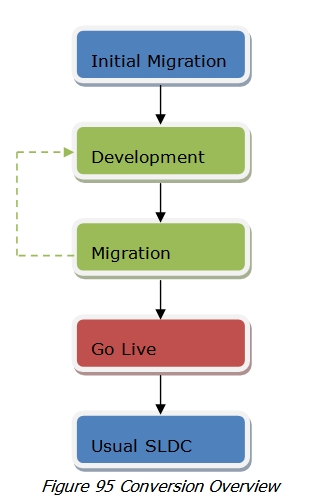
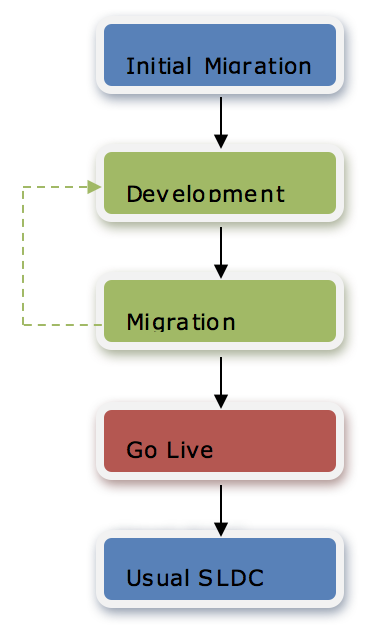
Updating chapters 17, 18, 19, 21
Converting code images to xml code where applicable, formatting cleanup

Changed region(s): [[0.0309, 0.0298, 0.9259, 1.0]]

diff --git a/chapters/ant-utilities.md b/chapters/ant-utilities.md
@@ -28,22 +28,22 @@
     * [Javadoc](#javadoc)
 
 Specific to the Java implementation of Skyve, Skyve projects include a
-build.xml file which contains a number of utilities to assist
-developers. To access the utilities, drag the build.xml file into the
+`build.xml` file which contains a number of utilities to assist
+developers. To access the utilities, drag the `build.xml` file into the
 ant view in Eclipse.
 
-![](media/image159.png)
+![Figure 88](media/image159.png "Figure 88 - Accessing the ant utilities")
 
-_Figure 88 Accessing the ant utilities_
+_Figure 88 - Accessing the ant utilities_
 
 The default target is generateDomain – which performs model validation
 and generates the domain classes.
 
-![](media/image160.png)
+![Figure 89](media/image160.png "Figure 89 - Ant tasks")
 
-_Figure 89 Ant tasks_
+_Figure 89 - Ant tasks_
 
-Developers can customise the build.xml, adding their own targets as
+Developers can customise the `build.xml`, adding their own targets as
 required, or customising those provided.
 
 ### Generate Domain
@@ -61,16 +61,16 @@ the default view as Skyve would generate for a document on-the-fly.
 From the ant view, edit the target and nominate the customer, module and
 document arguments.
 
-![](media/image161.png)
+![Figure 90](media/image161.png "Figure 90 - Setting the parameters to create a default edit view")
 
-_Figure 90 Setting the parameters to create a default edit view_
+_Figure 90 - Setting the parameters to create a default edit view_
 
 When you run the target, a file generatedEdit.xml will be created at the
 in the file system at the top level of the project.
 
-![](media/image162.png)
+![Figure 91](media/image162.png "Figure 91 - Locating the generated edit view")
 
-_Figure 91 Locating the generated edit view_
+_Figure 91 - Locating the generated edit view_
 
 ### Generating a Deployable Archive - copyProdEAR
 
@@ -78,9 +78,9 @@ The copyProdEAR target copies all files required for deployment, without
 the associated git or subversion files into a deployment ear folder in
 the project prod folder.
 
-![](media/image163.png)
+![Figure 92](media/image163.png "Figure 92 - Creating a deployable archive")
 
-_Figure 92 Creating a deployable archive_
+_Figure 92 - Creating a deployable archive_
 
 ### Javadoc
 
@@ -88,9 +88,7 @@ Skyve provides a javadoc ant target which generates a documentation set
 incorporating:
 
 -   doc metadata attributes as specified in the Skyve metadata,
-
 -   generic javadoc, and
-
 -   logical model graph, generated using graphviz “dot” application.
 
 ![](media/image164.png)
@@ -103,10 +101,9 @@ Custom javadoc can also be created using the usual doclet interface.
 The javadoc utility includes a combination of the application metadata
 formatted and combined with the embedded documentation.
 
-![](media/image165.png)
+![Figure 93](media/image165.png "Figure 93 - Example of formatted application specification combining metadata and embedded documentation")
 
-_Figure 93 Example of formatted application specification combining
-metadata and embedded documentation_
+_Figure 93 - Example of formatted application specification combining metadata and embedded documentation_
 
 Skyve includes documentation attributes at every level of application
 metadata.
@@ -119,15 +116,10 @@ the metadata), according to the concepts inherent in the platform.
 The utility creates a full documentation set including:
 
 -   Titles,
-
 -   Overviews,
-
 -   Indexes and Table of Contents for each section,
-
 -   Automatic numbered references for each section, table and figure,
-
 -   Internal links, and
-
 -   External links.
 
 Because the utility generates documentation for every part of the
@@ -135,10 +127,9 @@ application specification, it encourages developers and technical
 writers to be thorough and cover all aspects of the application they are
 documenting.
 
-![](media/image166.png)
+![Figure 94](media/image166.png "Figure 94 - Customise the javadoc task to specify the package and destination directory")
 
-_Figure 94 Customise the javadoc task to specify the package and
-destination directory_
+_Figure 94 - Customise the javadoc task to specify the package and destination directory_
 
 **[⬆ back to top](#contents)**
 

diff --git a/chapters/skyve-persistence-mechanisms.md b/chapters/skyve-persistence-mechanisms.md
@@ -40,18 +40,11 @@ best-practice Web design features on every logical table within the
 application persistence model including:
 
 -   Generic naming conventions for generic mechanisms,
-
 -   UUID enterprise-level guaranteed key uniqueness,
-
 -   Optimistic Lock concurrency controls,
-
--   Document scoping - declarative row-level security & source
-    identification,
-
+-   Document scoping - declarative row-level security & source identification,
 -   Multi-tenancy,
-
 -   Enterprise-wide consistent reference representation, and
-
 -   Collaborative record flagging.
 
 ### Generic Naming Conventions
@@ -66,7 +59,7 @@ prefixed “biz”.
 Skyve mandates the existence of the following named columns on all
 primary data rows in a Skyve managed database:
 
-Column Name | Purpose | Comments 
+Column Name | Purpose | Comments
 ------------|---------|----------
 bizId       | Enterprise wide unique identifier  | The use of UUID guarantees consistency and means no performance costs for assigning IDs, also means that IDs can be generated in external source applications without the need for re-keying when importing into a Skyve application store.
 bizVersion  | Optimistic lock concurrency control | Skyve compares the persisted version number at the time the bean is loaded with the version number when attempting to save. If the numbers are different, the bean has been changed by another conversation.
@@ -97,8 +90,8 @@ the semantic nature of each relationship.
 
 #### Ordering and bizOrdinal
 
-Column Name |  Purpose  |  Comments 
-------------| ----------|-----------
+Column Name | Purpose   | Comments
+----------- | --------- | -----------
 bizOrdinal  | Generic collection ordinal position | bizOrdinal is used for implicit ordering where collections are declared “ordered”.
 
 Where collections are declared to be ordered, Skyve maintains the
@@ -207,9 +200,9 @@ text-based flag for every entity/record within the application.
 bizFlagComment will be represented in the list by a flag icon with the
 hover gesture displaying the persisted comment.
 
-![](media/image158.png)
+![Figure 87](media/image158.png "Figure 87 - Example of the result of hover action over the flag icon")
 
-_Figure 87 Example of the result of hover action over the flag icon_
+_Figure 87 - Example of the result of hover action over the flag icon_
 
  ### Document scoping row-level security and source identification
 

diff --git a/chapters/content-repository-tools.md b/chapters/content-repository-tools.md
@@ -26,8 +26,7 @@
 
 ### Backing up the Repository
 
-A backup batch file is located in &lt; Project Home Directory
-&gt;/prod/backup/
+A backup batch file is located in `<Project Home Directory>/prod/backup/`.
 
 ### Reindexing the Repository
 
@@ -52,14 +51,12 @@ content files. Because the tree contains the path to each match, Skyve
 can determine the document context in which each match occurs and take
 the user (in the UI) to the document instance where the match occurs.
 
-Skyve needs to be able to create files and folders within the
-&lt;Project Home Directory&gt;\\content\\ directory because Skyve does
+Skyve needs to be able to create files and folders within the `<Project Home Directory>\content\` directory because Skyve does
 not store content as blobs in the database (which would be too closely
 coupled to particular DB implementations). Content is stored within a
 content folder in the file system. Indexes are also held on the file
 system and when the indexation occurs, folders and files are created
-(for example &lt;Project Home
-Directory&gt;\\content\\workspaces\\arc\\index\\).
+(for example `<Project Home Directory>\content\workspaces\arc\index\`).
 
 The CONTENT tables in the database are part of the implementation of
 JCR. These hold the serialised node information (the paths to the
@@ -70,8 +67,7 @@ Indexes are maintained automatically by Skyve, however if data is
 inserted into the database by other means, the indexes will not be
 updated automatically.
 
-To reindex the repository, run the reindex.bat file located at &lt;
-Project Home Directory &gt;/prod/backup/
+To reindex the repository, run the reindex.bat file located at `<Project Home Directory>/prod/backup/`.
 
 **[⬆ back to top](#contents)**
 

diff --git a/chapters/wildcat-conversion-tool.md b/chapters/wildcat-conversion-tool.md
@@ -31,7 +31,9 @@ NOTE: Refer to the WCT developer guide for full details.
 
 ### Using the Skyve Converstion Tool (WCT)
 
-![](media/image167.png)
+![Figure 95](media/image167.png "Figure 95 - Conversion Overview")
+
+_Figure 95 - Conversion Overview_
 
 Application metadata may be created using WCT. WCT combines ETL
 capabilities with generation of *Bizlet* code and application metadata.
@@ -60,9 +62,9 @@ Generation | WCT generates application metadata and Bizlet code. <br><br>Skyve a
 Migration Plan | WCT creates a default migration plan (as a mapping file), which includes SQL update statements for references. A postload file is also created, containing just the SQL update statements.<br><br>SQL updates run after the data is migrated to the destination DB and use legacy fields as staging mechanisms.<br><br>The postload file can be used to ensure referential integrity after subsequent data manipulations during the development process. | Mapping file<br><br>Postload file
 Migration | WCT either migrates the data directly from the source DB to the destination DB, or creates a data load file. | Data load file (optionally)
 
-![](media/image168.png)
+![Figure 96](media/image168.png "Figure 96 - Detailed Conversion Process and Artefacts")
 
-_Figure 96 Detailed Conversion Process and Artefacts_
+_Figure 96 - Detailed Conversion Process and Artefacts_
 
 ### Development Approach and Roundtripping
 

diff --git a/chapters/common-patterns.md b/chapters/common-patterns.md
@@ -209,15 +209,15 @@ returned as declared.
 
 ```java
 @Override
-	public Configuration newInstance(Configuration bean) throws Exception {
-		Persistence p = CORE.getPersistence();
-		DocumentQuery q = p.newDocumentQuery(Configuration.MODULE_NAME, Configuration.DOCUMENT_NAME);
-		Configuration result = q.beanResult();
-		if (result == null) {
-			result = bean;
-		}
-		return result;
+public Configuration newInstance(Configuration bean) throws Exception {
+	Persistence p = CORE.getPersistence();
+	DocumentQuery q = p.newDocumentQuery(Configuration.MODULE_NAME, Configuration.DOCUMENT_NAME);
+	Configuration result = q.beanResult();
+	if (result == null) {
+		result = bean;
 	}
+	return result;
+}
 ```
 
 _Figure 84 - Example newInstance method which sets the current Bean_
